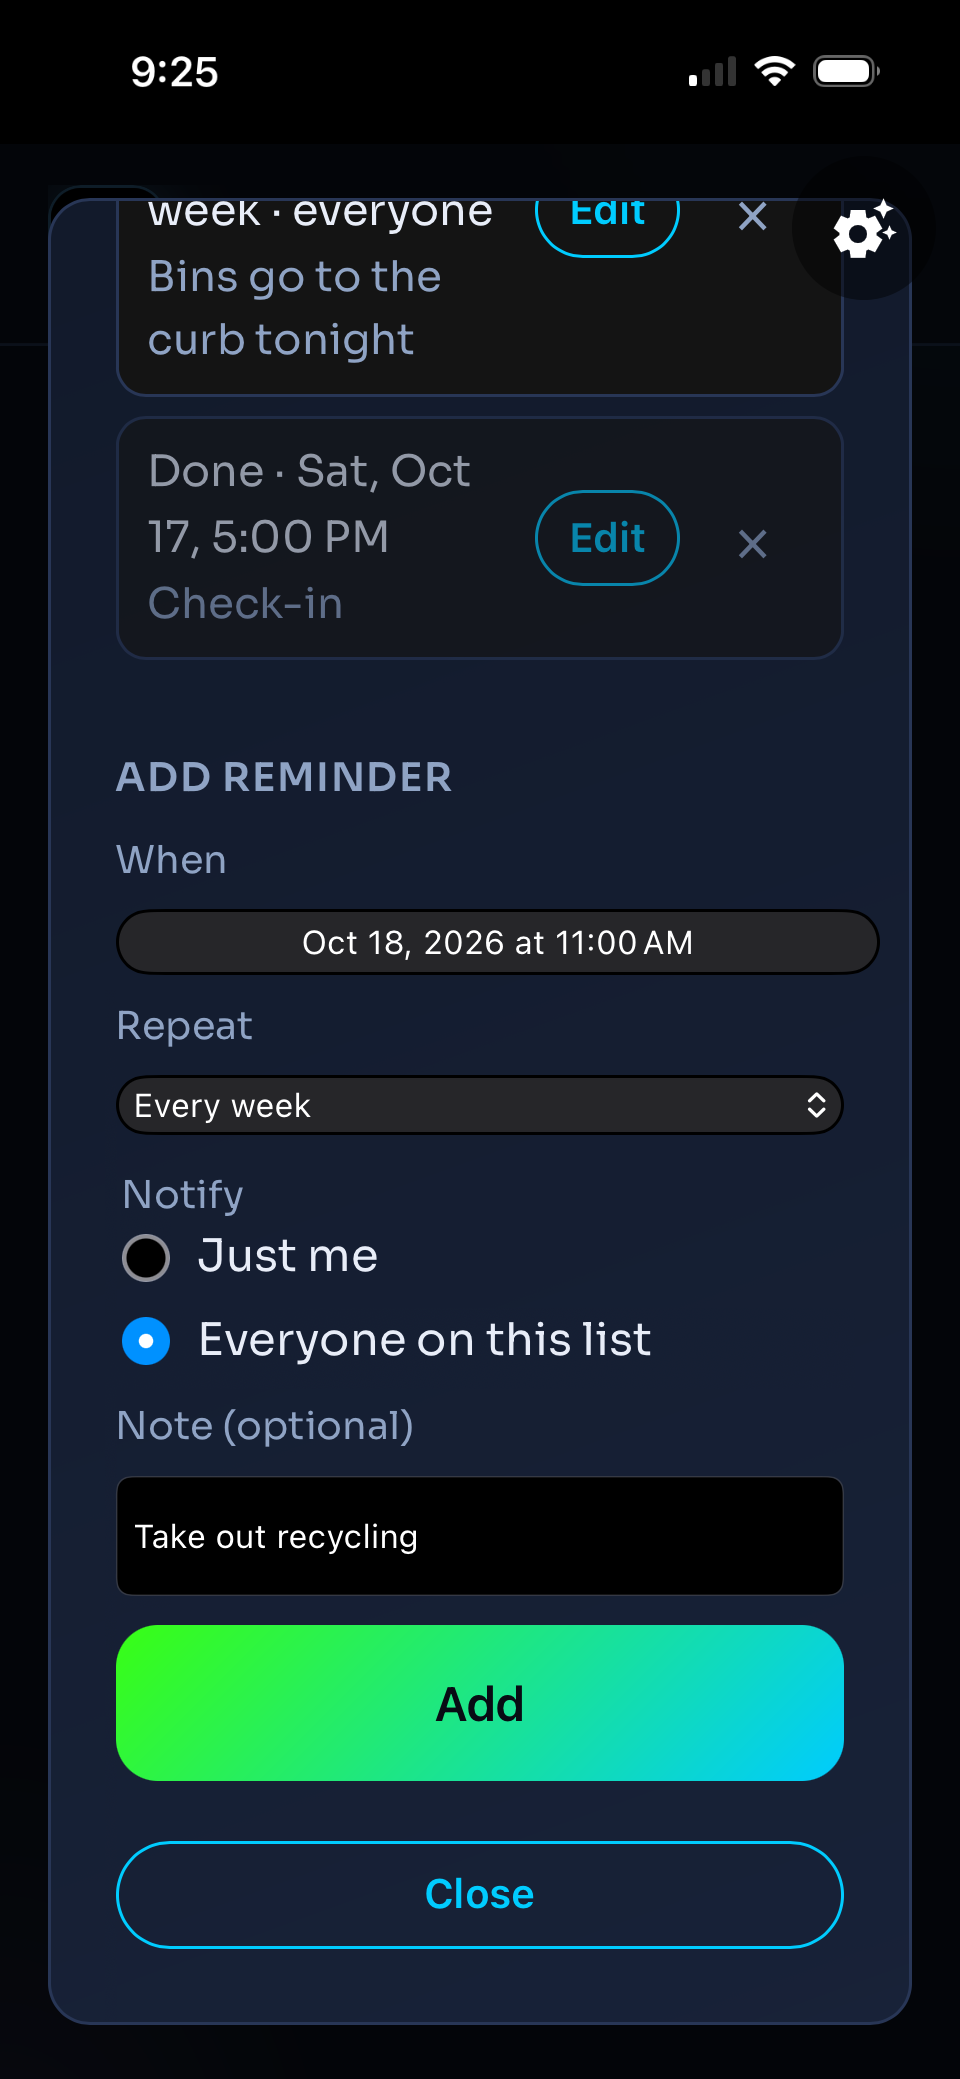
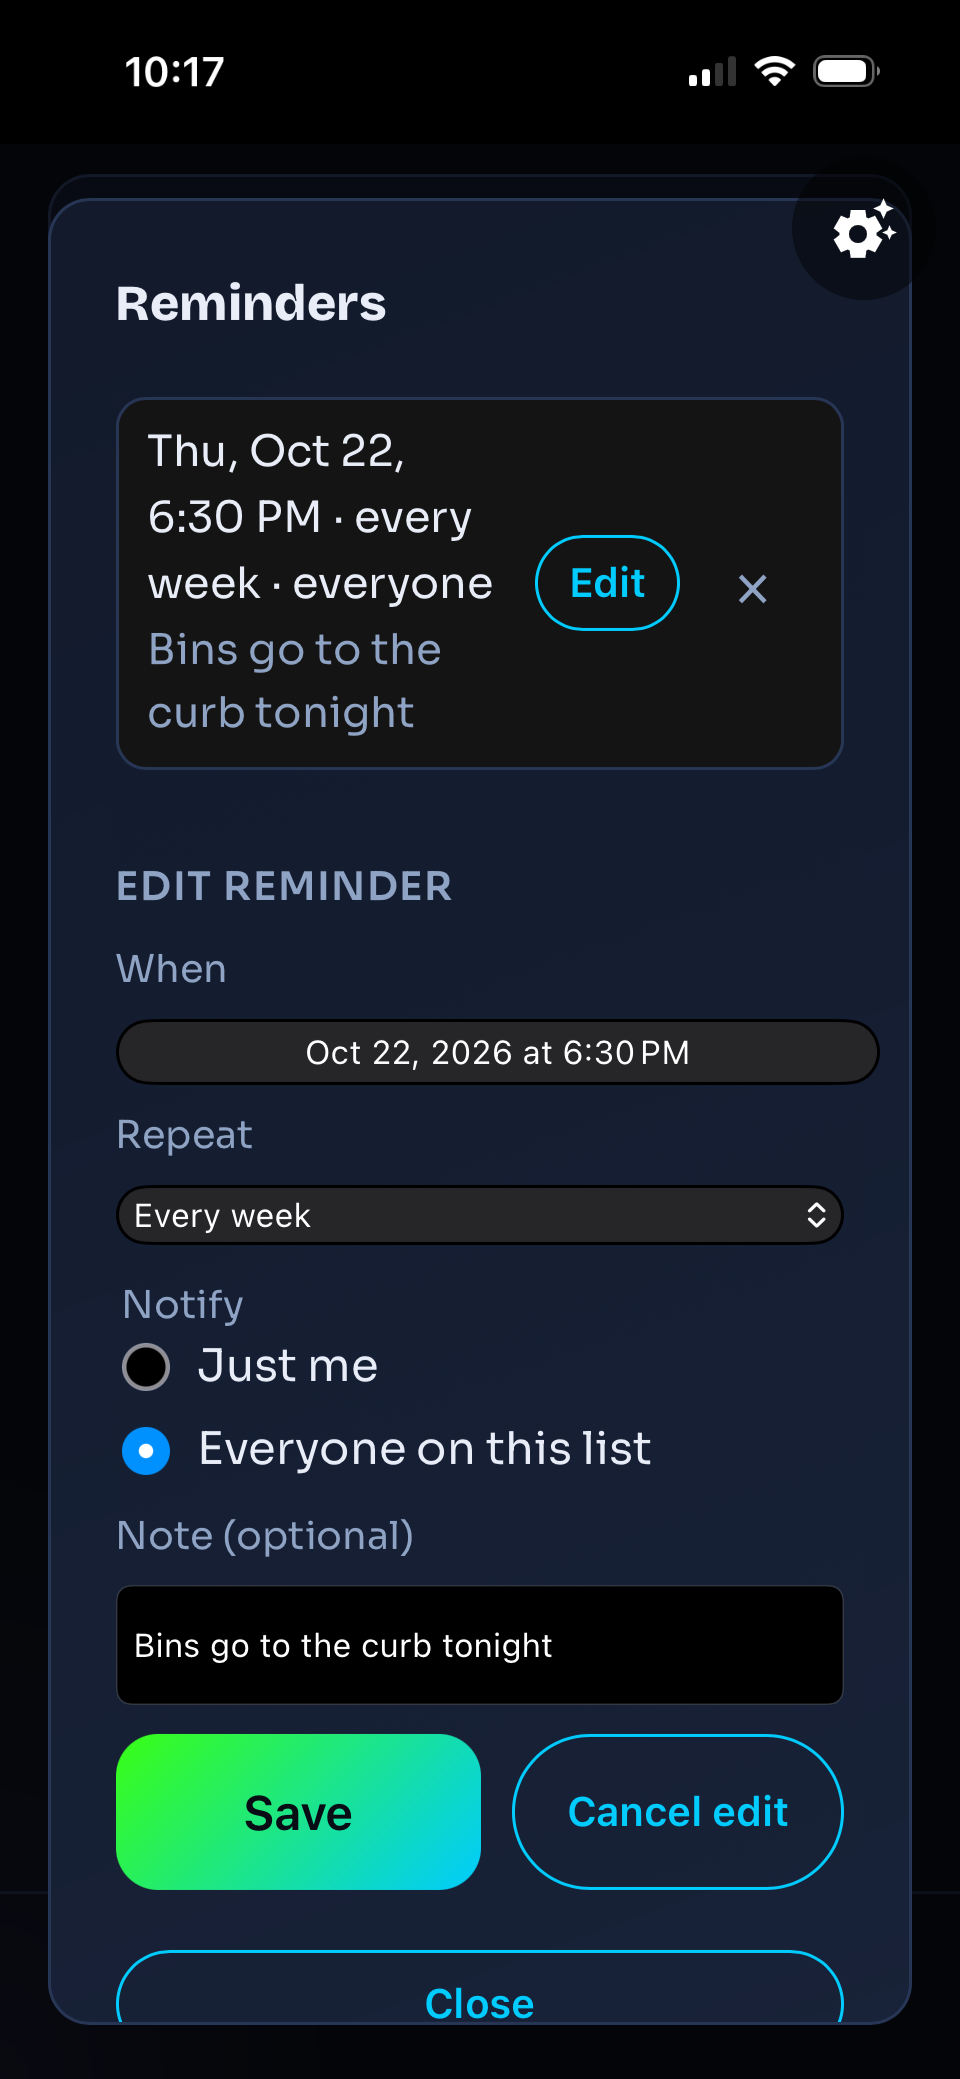
Update chores journey with revised reminders and new images
- Modified README.md to reflect changes in the chores section, including updated reminder times and descriptions.
- Updated index.html to change the check-in reminder from Sunday to Saturday at 5:00 PM and added new images for reminders.
- Introduced new images for the "mark in place" feature and updated existing images to align with the revised chore reminders.

diff --git a/journeys/chores/index.html b/journeys/chores/index.html
@@ -57,7 +57,7 @@
         <ul>
           <li>A "Chores" checklist the whole family can see and check off.</li>
           <li>A reminder on a single chore that repeats every week on everyone's phone.</li>
-          <li>A Sunday check-in reminder for the whole list.</li>
+          <li>A Saturday 5:00 PM check-in reminder for the whole list.</li>
         </ul>
       </section>
 
@@ -117,7 +117,10 @@
             </div>
             <div class="shots">
               <figure class="shot" data-shot="03-item-reminder.png">
-                <div class="shot-frame"><span class="shot-label">The Reminders dialog: every week, everyone on the list, note “Bins go to the curb tonight”</span><code>03-item-reminder.png</code></div>
+                <div class="shot-frame"><span class="shot-label">Edit reminder for Take out recycling: Thursday at 6:30 PM, every week, everyone on the list, note “Bins go to the curb tonight”</span><code>03-item-reminder.png</code></div>
+              </figure>
+              <figure class="shot" data-shot="03-on-item.png">
+                <div class="shot-frame"><span class="shot-label">Take out recycling showing its Thursday 6:30 PM weekly reminder</span><code>03-on-item.png</code></div>
               </figure>
               <figure class="shot" data-shot="03-paused.png">
                 <div class="shot-frame"><span class="shot-label">Take out recycling checked off, with its weekly reminder paused</span><code>03-paused.png</code></div>
@@ -129,18 +132,21 @@
         <li class="step">
           <div class="step-grid">
             <div>
-              <h2>Add a Sunday check-in</h2>
+              <h2>Add a weekly check-in</h2>
               <p class="step-why">A list reminder is about the whole checklist, not one chore.</p>
               <ol class="how">
                 <li>In the list's <span class="ui">Settings</span>, go to <strong>Reminders</strong> and tap <span class="ui">Add list reminder</span>.</li>
-                <li><strong>When</strong>: Sunday at 5:00 PM. <strong>Repeat</strong>: <span class="ui">Every week</span>. <strong>Notify</strong>: <span class="ui">Everyone on this list</span>.</li>
+                <li><strong>When</strong>: Saturday at 5:00 PM. <strong>Repeat</strong>: <span class="ui">Every week</span>. <strong>Notify</strong>: <span class="ui">Everyone on this list</span>.</li>
                 <li><strong>Note</strong>: <em>Chore check-in before dinner</em>. Tap <span class="ui">Add</span>.</li>
               </ol>
               <p class="tip"><strong>See them all:</strong> <span class="ui">List all reminders</span> shows every reminder on the list in one place, with <strong>Edit</strong> and <strong>×</strong> on each.</p>
             </div>
             <div class="shots">
+              <figure class="shot" data-shot="04-add-reminder.png">
+                <div class="shot-frame"><span class="shot-label">Add reminder: Saturday at 5:00 PM, every week, everyone on this list, note “Chore check-in before dinner”</span><code>04-add-reminder.png</code></div>
+              </figure>
               <figure class="shot" data-shot="04-list-reminder.png">
-                <div class="shot-frame"><span class="shot-label">List Settings, Reminders section, after adding the Sunday check-in</span><code>04-list-reminder.png</code></div>
+                <div class="shot-frame"><span class="shot-label">List Settings, Reminders section, with the Saturday 5:00 PM check-in for everyone</span><code>04-list-reminder.png</code></div>
               </figure>
             </div>
           </div>

diff --git a/README.md b/README.md
@@ -41,7 +41,7 @@ The slot label becomes the image's alt text, so if a shot doesn't match its labe
 
 **grocery-list:** `01-agent-provisioning` new Cloud Agent Provisioning / Linking · `01-agent-ready` home screen with agent connected · `02-open-lists` Apps card with Portico Lists · `02-new-list` New dialog, Groceries / Grocery · `03-items` list with a few items · `04-invite-form` Users panel invite form · `05-invite-qr` Invite link QR dialog · `06-accept` invitee Accept · `07-shared-list` invitee's Lists showing Groceries · `08-notifications` Item added / Item removed on · `09-done` Done header with Clear
 
-**chores:** `01-checklist` Chores checklist · `02-mark-in-place` When marking items = Mark in place · `03-item-reminder` every week / everyone, curb note · `03-paused` recycling checked, reminder paused · `04-list-reminder` Reminders section with the Sunday check-in · `05-users` Users panel · `06-push` lock-screen reminder
+**chores:** `01-checklist` Chores checklist · `02-mark-in-place` When marking items = Mark in place · `03-item-reminder` Thursday 6:30 PM / everyone / curb note · `03-on-item` reminder shown on the chore · `03-paused` recycling checked, reminder paused · `04-add-reminder` Saturday 5:00 PM check-in form · `04-list-reminder` Reminders section with that check-in · `05-users` Users panel · `06-push` lock-screen reminder
 
 **ai-memory:** `01-ai-chat` private AI Chat · `02-user-memory` Save this user memory · `02-oyster-bar` allergy used in a reply · `03-list-memory` Meals confirm card, vegetarian through October · `04-agent-memory` confirm card, the dog is Biscuit · `04-meals-knows` Meals answers the dog’s name
 
